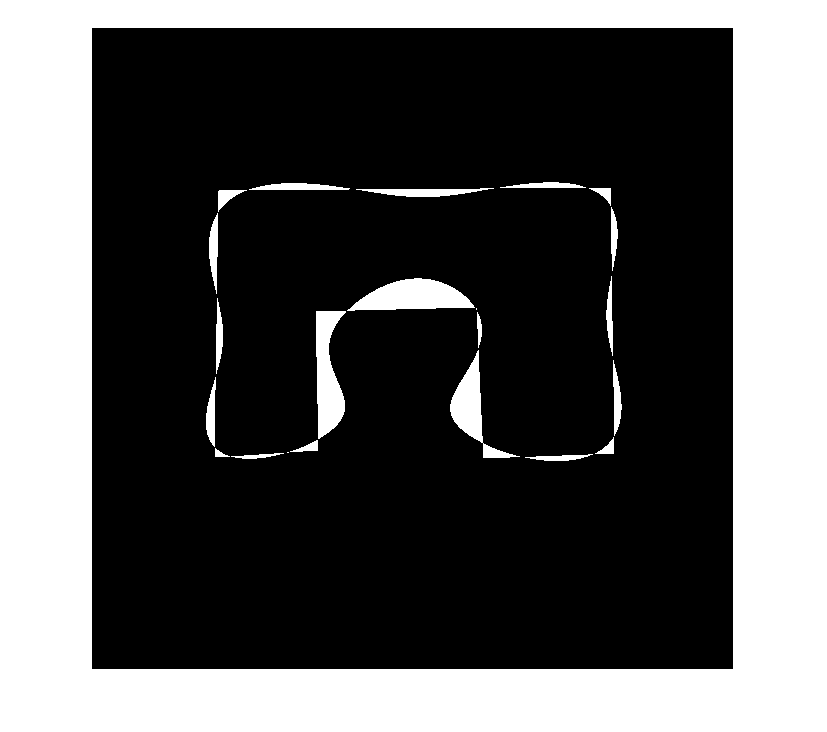
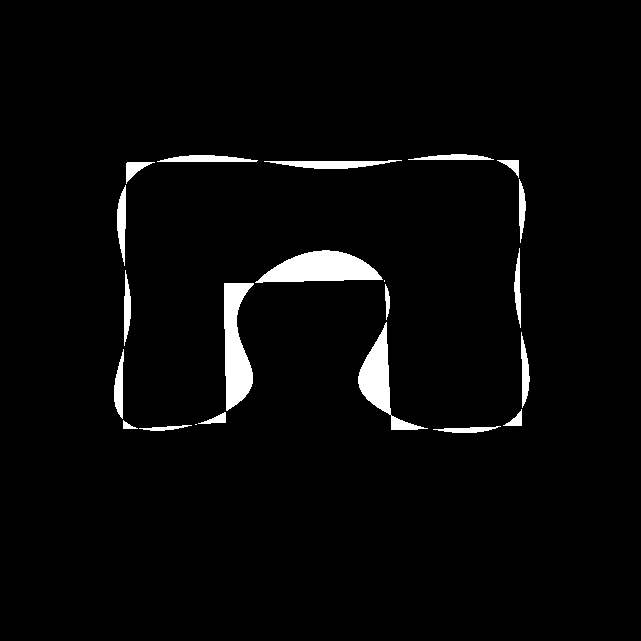
UH PC

diff --git a/Data/Paper/script2.m b/Data/Paper/script2.m
@@ -14,15 +14,16 @@ psnr = 50;
 x_n = m_x * (x_b - x_a) + 1;
 y_n = m_y * (y_b - y_a) + 1;
 
-load('/home/wjmolina/Documents/GitHub/ShapeReconstruction/Data/Paper/09/dat.mat', 'I');
-% I = GetImageOfPower(IC, - 1, 1, - 1, 1, x_n, y_n);
+load('/home/wjmolina/Documents/GitHub/ShapeReconstruction/Data/Paper/03/dat.mat', 'IC');
+I = GetImageOfPower(IC, - 1, 1, - 1, 1, x_n, y_n);
 
 disp("Bernstein");
 
 [RC_best, D] = PowerReconstruction(I, n, x_a, x_b, y_a, y_b, psnr);
 R_B_best = GetImageOfPower(RC_best, x_a, x_b, y_a, y_b, x_n, y_n);
 
-for i = 1 : 500
+tic;
+for i = 1 : 100
     disp(i);
     RC = PowerReconstruction(I, n, x_a, x_b, y_a, y_b, psnr);
     R_B = GetImageOfPower(RC, x_a, x_b, y_a, y_b, x_n, y_n);
@@ -37,12 +38,14 @@ for i = 1 : 500
         R_B_best = ~ R_B;
     end
 end
+toc;
 
 disp("Vetterli");
 
 [~, Vet_rec_worst, ~] = VetterliReconstruction(I, x_a, x_b, y_a, y_b, x_n, y_n, psnr);
 
-for i = 1 : 50
+tic;
+for i = 1 : 100
     disp(i);
     [~, Vet_rec, ~] = VetterliReconstruction(I, x_a, x_b, y_a, y_b, x_n, y_n, psnr);
     
@@ -51,6 +54,7 @@ for i = 1 : 50
         Vet_rec_worst = Vet_rec;
     end
 end
+toc;
 
 figure;
 imshow(abs(I - R_B_best));

diff --git a/Bases/Power/Scripts/ReconstructPower.m b/Bases/Power/Scripts/ReconstructPower.m
@@ -1,5 +1,5 @@
-clear;
-clc;
+%clear;
+%clc;
 
 n = 4;
 x_a = - 1;
@@ -13,7 +13,8 @@ psnr = - 1;
 x_n = m_x * (x_b - x_a) + 1;
 y_n = m_y * (y_b - y_a) + 1;
 
-I = GetImageOfPower(GetRandomPower(n, x_a, x_b, y_a, y_b, false), x_a, x_b, y_a, y_b, x_n, y_n);
-R = GetImageOfPower(PowerReconstruction(I, n, x_a, x_b, y_a, y_b, psnr), x_a, x_b, y_a, y_b, x_n, y_n);
+%I = GetImageOfPower(GetRandomPower(n, x_a, x_b, y_a, y_b, false), x_a, x_b, y_a, y_b, x_n, y_n);
+[C, D] = PowerReconstruction(I, n, x_a, x_b, y_a, y_b, psnr);
+R = GetImageOfPower(C, x_a, x_b, y_a, y_b, x_n, y_n);
 
-imshow(abs(I - R));
+imshow(abs(I - ~ R));

diff --git a/Data/Paper/script3.m b/Data/Paper/script3.m
@@ -37,7 +37,7 @@ while true
     
     [~, Vet_rec, ~] = VetterliReconstruction(I, x_a, x_b, y_a, y_b, x_n, y_n, psnr);
     
-    if abs(SorensenDiceCoefficient(I, R_B_best) - SorensenDiceCoefficient(I, Vet_rec)) < 0.01
+    if abs(SorensenDiceCoefficient(I, R_B_best) - SorensenDiceCoefficient(I, Vet_rec)) < 0.005
         break;
     end
     
@@ -48,5 +48,7 @@ end
 
 figure;
 imshow(abs(I - R_B_best));
+disp(SorensenDiceCoefficient(I, R_B_best));
 figure;
 imshow(abs(I - Vet_rec));
+disp(SorensenDiceCoefficient(I, Vet_rec));

diff --git a/Laboratory/Scripts/ProtoPseudoReconstruction.m b/Laboratory/Scripts/ProtoPseudoReconstruction.m
@@ -42,4 +42,6 @@ for r = 0 : ceil(n / 2)
 end
 
 R = GetImageOfPower(quadprog(M' * M, [], [], [], eye(1, size(M, 2)), 1, [], [], [], optimset('display', 'off'))', 0, size(I, 1), 0, size(I, 2), 2 ^ 9 + 1, 2 ^ 9 + 1);
+imshow(I);
+figure;
 imshow(abs(I - R));
